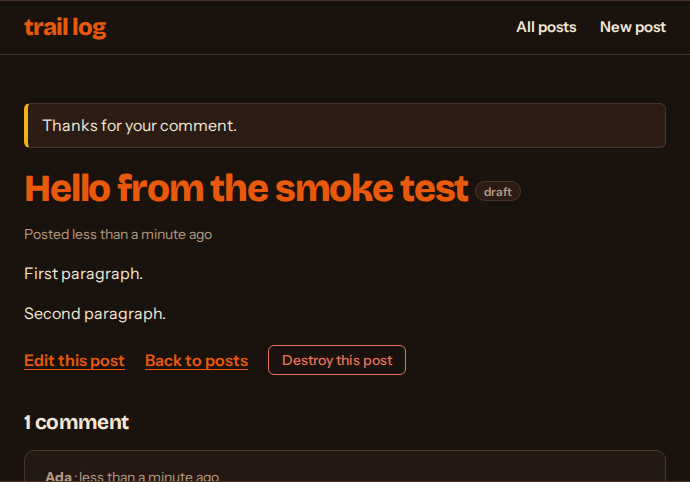
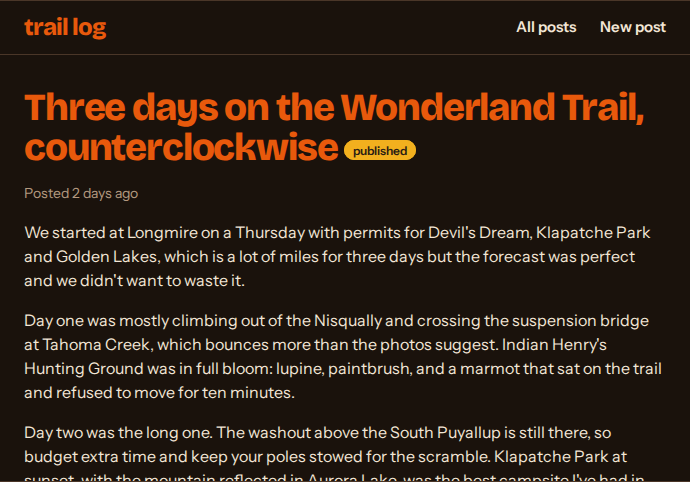
feat(examples): browser-sqlite seeds a fresh database from db/seeds.ts

Changed region(s): [[0.0304, 0.6224, 0.9739, 1.0], [0.0304, 0.1867, 0.9435, 0.4357], [0.0304, 0.4668, 0.9435, 0.5913]]

diff --git a/examples/browser-sqlite/template/db/seeds.ts b/examples/browser-sqlite/template/db/seeds.ts
@@ -1,0 +1,131 @@
+import { Post } from "../app/models/post.ts";
+
+const DAY = 24 * 60 * 60 * 1000;
+const ago = (days: number, hours = 0) => new Date(Date.now() - days * DAY - hours * 60 * 60 * 1000);
+
+type Seed = {
+  title: string;
+  body: string;
+  published: boolean;
+  daysAgo: number;
+  comments: [author: string, body: string, hoursLater: number][];
+};
+
+const posts: Seed[] = [
+  {
+    title: "Three days on the Wonderland Trail, counterclockwise",
+    body: `We started at Longmire on a Thursday with permits for Devil's Dream, Klapatche Park and Golden Lakes, which is a lot of miles for three days but the forecast was perfect and we didn't want to waste it.
+
+Day one was mostly climbing out of the Nisqually and crossing the suspension bridge at Tahoma Creek, which bounces more than the photos suggest. Indian Henry's Hunting Ground was in full bloom: lupine, paintbrush, and a marmot that sat on the trail and refused to move for ten minutes.
+
+Day two was the long one. The washout above the South Puyallup is still there, so budget extra time and keep your poles stowed for the scramble. Klapatche Park at sunset, with the mountain reflected in Aurora Lake, was the best campsite I've had in years.
+
+Gear note: the new stove is great, but bring a backup lighter. The igniter quit at 5,000 feet.`,
+    published: true,
+    daysAgo: 2,
+    comments: [
+      [
+        "Priya N.",
+        "Klapatche at sunset is unreal. Did you have any trouble getting the permit, or was it a walk-up?",
+        3,
+      ],
+      [
+        "Marcus",
+        "The South Puyallup washout got me last year too. Good call on stowing the poles.",
+        9,
+      ],
+      [
+        "Dana Whitfield",
+        "Counterclockwise or not, three days is fast. How were your knees on the descent to the Carbon?",
+        26,
+      ],
+    ],
+  },
+  {
+    title: "Gear list: what I actually carried this summer",
+    body: `Base weight came in at 14.2 lb, down from 19 last year. Most of that was the tent (a trekking-pole shelter instead of a freestanding dome) and leaving the camp chair at home, which I regret about once per trip.
+
+What earned its place: a 20°F quilt, a foam sit pad that doubles as a pillow stuff, and a small filter with a gravity bag. What didn't: the solar charger. It never charged anything under tree cover.
+
+Full spreadsheet is on my desk at home; I'll post it once I clean it up.`,
+    published: true,
+    daysAgo: 9,
+    comments: [
+      ["Sam Ortega", "Trekking-pole shelters are a game changer. Which one did you go with?", 4],
+      [
+        "Lin",
+        "Agree on the solar charger. A 10,000 mAh battery has been plenty for me for four nights.",
+        30,
+      ],
+    ],
+  },
+  {
+    title: "Snow on Cascade Pass in July",
+    body: `Plenty of it, mostly above the last switchback. Microspikes were enough on the morning crust, but by noon it was soft enough to posthole up to the knee on the way down.
+
+The road to the trailhead is open and the lot was full by 7:30 on a Saturday. Ranger at Marblemount said the Sahale Arm is still a no for anyone without an axe.`,
+    published: true,
+    daysAgo: 17,
+    comments: [
+      ["Marcus", "Thanks for the conditions report, this is exactly what I was looking for.", 2],
+      ["Hannah K.", "Went up the next day. Can confirm the postholing. Bring gaiters!", 22],
+      ["Priya N.", "Is the bridge at the Stehekin end of the road back in?", 40],
+      ["Ellis", "Bridge is in as of last week. Bus is running twice a day.", 47],
+    ],
+  },
+  {
+    title: "A rainy weekend at Lake Ingalls (and why we turned around)",
+    body: `Sometimes the right call is the short one. Clouds were sitting on the ridge from the moment we left the trailhead, and by the time we reached Ingalls Pass it was sideways rain and forty-foot visibility.
+
+We had lunch behind a boulder, watched two mountain goats ignore the weather entirely, and walked back down. No lake, no Stuart view, but nobody was hypothermic either.
+
+We'll be back in October for the larches.`,
+    published: true,
+    daysAgo: 31,
+    comments: [
+      [
+        "Dana Whitfield",
+        "Turning around is always the right call when you're asking whether it is. Larches in October will be worth it.",
+        6,
+      ],
+    ],
+  },
+  {
+    title: "Leave No Trace, revisited",
+    body: `A short post after finding three fire rings at an established campsite where fires have been banned since 2019. Pack out your toilet paper, camp on durable surfaces, and please don't build new rings.
+
+If you see a ring at a no-fires site, scatter the rocks and the cold ash. It takes two minutes and it keeps the next group from assuming it's allowed.`,
+    published: true,
+    daysAgo: 45,
+    comments: [],
+  },
+  {
+    title: "Draft: winter trip planning",
+    body: `Thinking about a snowshoe overnight at Mazama Ridge in January. Need to rent an avalanche beacon and take the refresher course first.
+
+To do:
+- check the NWAC forecast pattern for the last three winters
+- ask Dana about the route above Paradise
+- figure out whether the 0°F bag is actually warm enough`,
+    published: false,
+    daysAgo: 1,
+    comments: [],
+  },
+];
+
+for (const seed of posts) {
+  const createdAt = ago(seed.daysAgo);
+  const post = await Post.create({
+    title: seed.title,
+    body: seed.body,
+    published: seed.published,
+    created_at: createdAt,
+    updated_at: createdAt,
+  });
+  for (const [author, body, hoursLater] of seed.comments) {
+    const at = new Date(createdAt.getTime() + hoursLater * 60 * 60 * 1000);
+    await post.comments.create({ author, body, created_at: at, updated_at: at });
+  }
+}
+
+console.log(`Seeded ${posts.length} posts.`);

diff --git a/examples/browser-sqlite/src/runtime/main.ts b/examples/browser-sqlite/src/runtime/main.ts
@@ -207,11 +207,17 @@ try {
     (await import("@blazetrails/trailties")) as typeof import("@blazetrails/trailties");
   await import(/* @vite-ignore */ `${moduleBase}config/environment.ts`);
   status("Running migrations…");
-  const { Base } = await import("@blazetrails/activerecord");
+  const { Base, DatabaseTasks } = await import("@blazetrails/activerecord");
   const pool = Base.connectionPool();
   await pool.migrationContext.migrate();
   pool.schemaReflection.clearBang();
   await pool.schemaReflection.loadAllBang(pool);
+  if (files.db === null) {
+    status("Seeding the database…");
+    await DatabaseTasks.loadSeed();
+    const bytes = sqlite.exportDatabase("browser.db");
+    if (bytes) post({ type: "db", bytes }, [bytes.buffer]);
+  }
   app = Trails.application;
   status("Running");
   post({ type: "booted" });

diff --git a/examples/browser-sqlite/README.md b/examples/browser-sqlite/README.md
@@ -30,6 +30,8 @@ true })`, presence and length validations, a `beforeValidation` callback that sq
   `_comment` partials, with collection rendering; `formWith` on a record and on a nested
   `[post, comment]`; `linkTo`, `linkToUnlessCurrent`, `buttonTo` with `method: "delete"`, `domId`,
   `pluralize`, `truncate`, `simpleFormat` and `timeAgoInWords`
+- **Seeds**: `db/seeds.ts`, a trip-report blog with drafts and comment threads, loaded when the
+  database is first created, as `db:prepare` does. **Reset database** reseeds it
 - **Migrations**: two, with a foreign key, a boolean default and a counter-cache column
 
 It boots through `Trails.initialize()`, autoloads through Zeitwerk, migrates through
